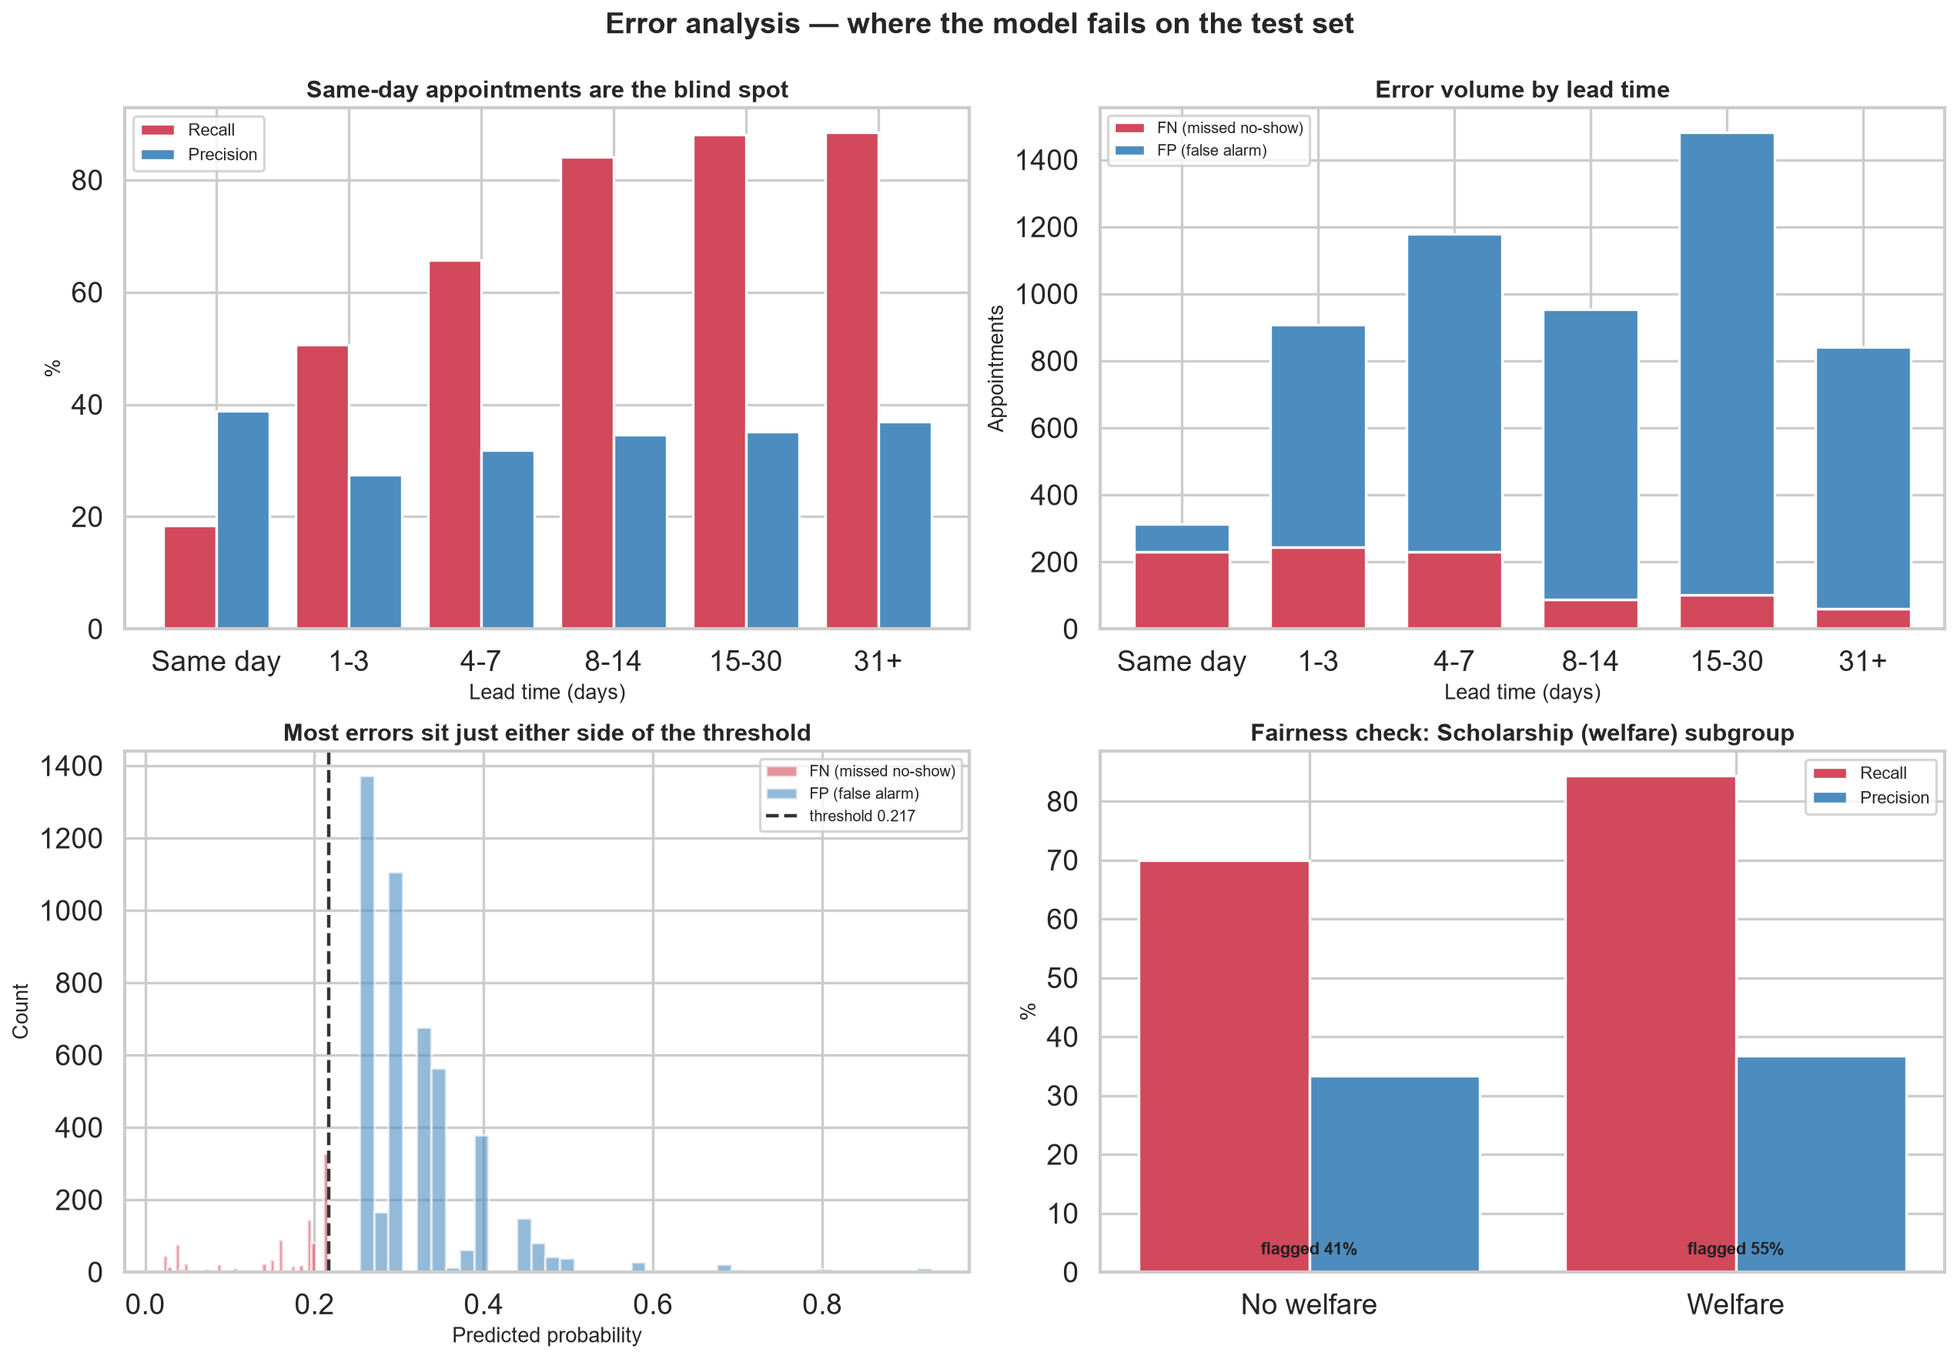
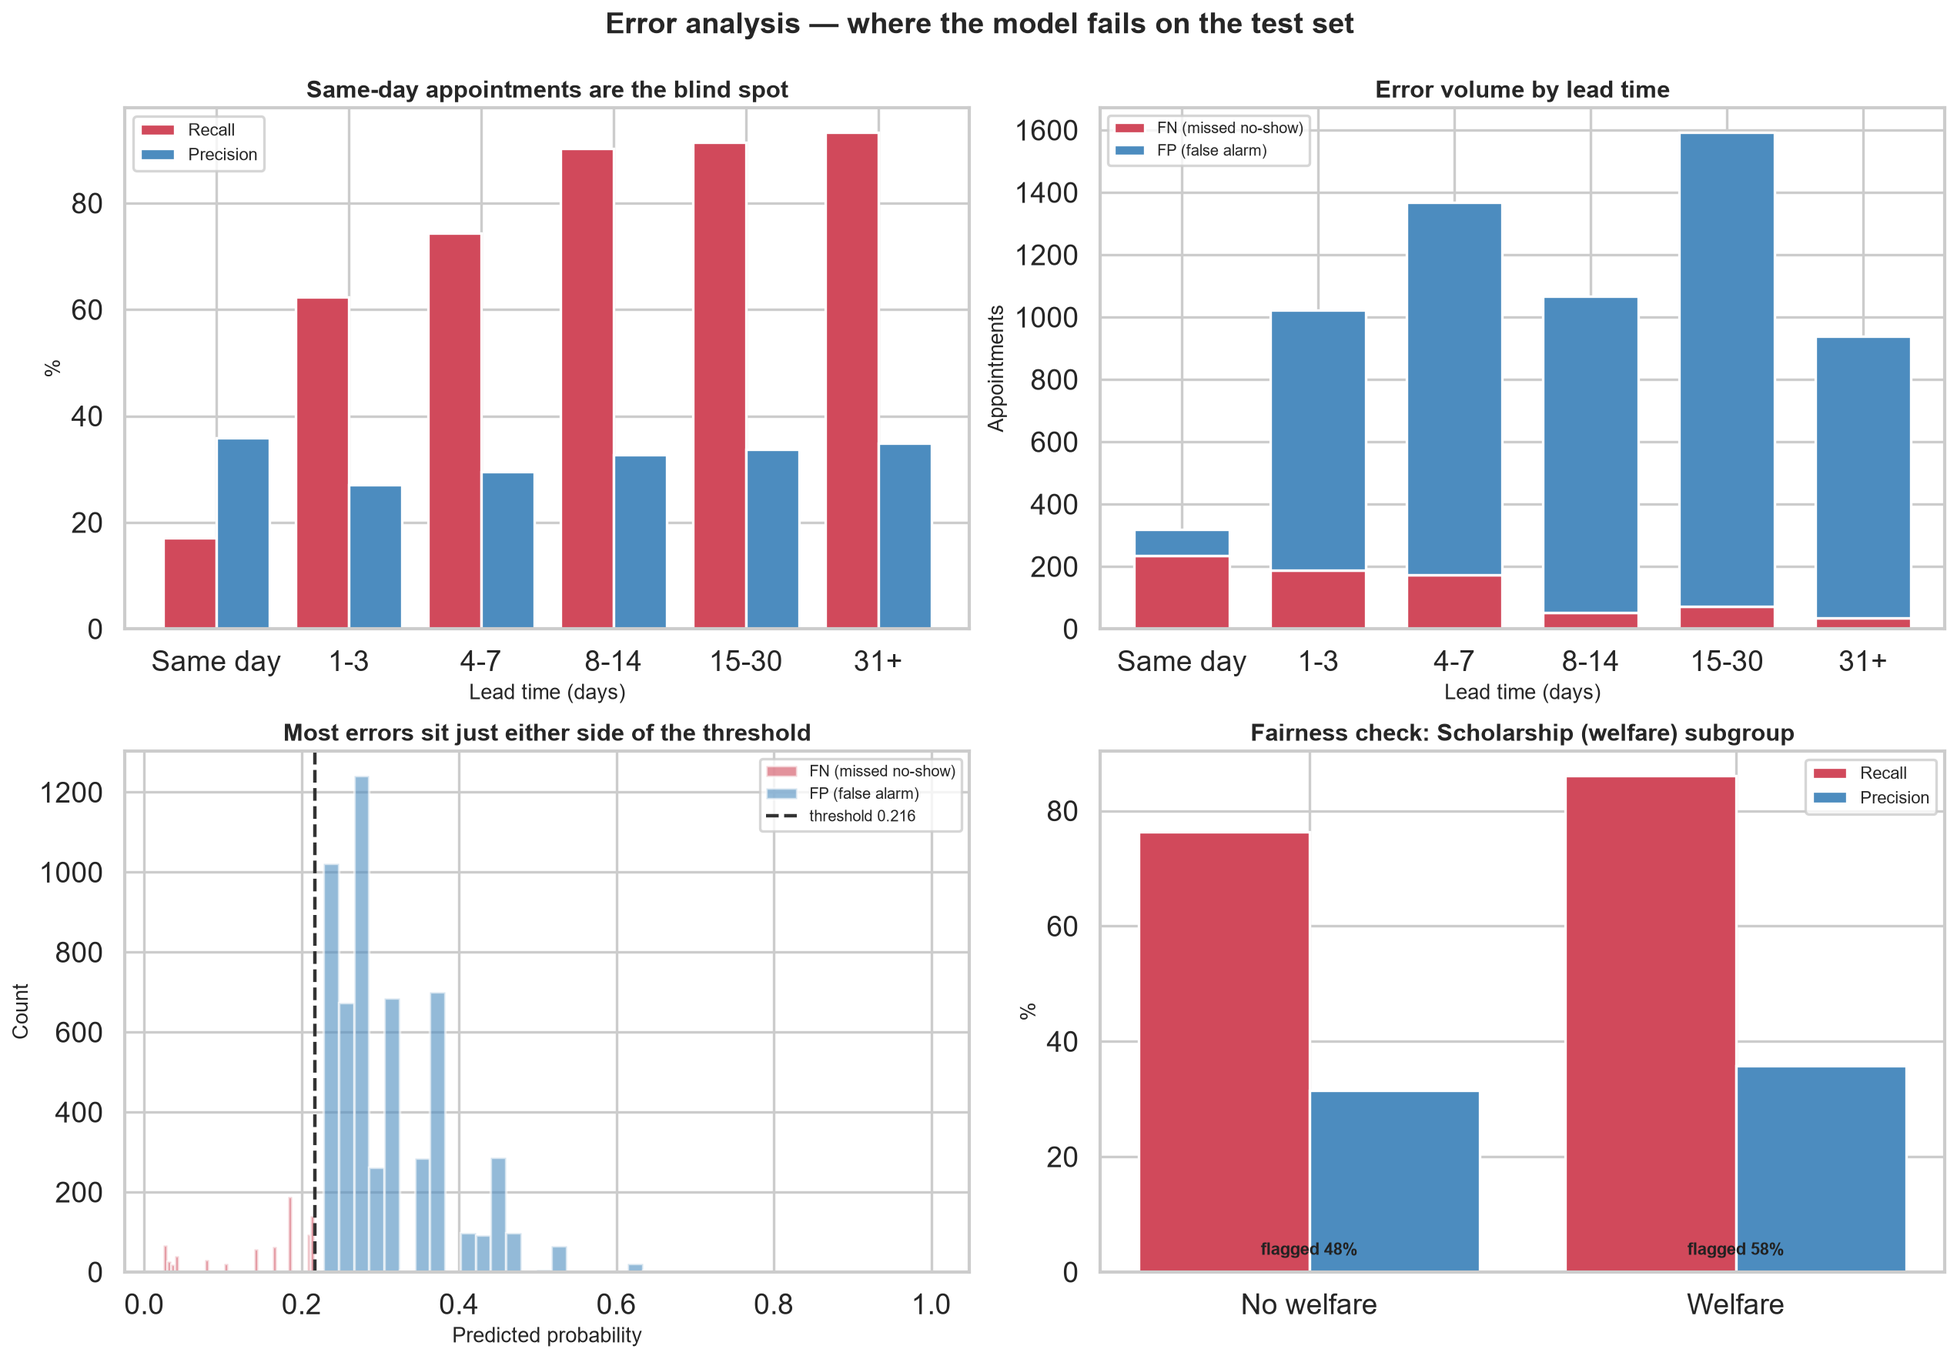
Fix temporal leakage in patient history features
Defense feedback, highest-priority fix: history features could include
outcomes that had not occurred yet at prediction time.

The prediction timestamp is scheduled_day, the moment the appointment is
booked. History was ordered by scheduled_day but accumulated outcomes
regardless of when they became observable, so a patient booking two
appointments in one visit had the first one's outcome counted against the
second before it happened. This affected 27,325 rows (24.7% of the data,
56.7% of rows with any history), and the leak carried signal: those rows
had a 22.8% no-show rate against 14.8% for clean ones.

A past appointment now contributes only if its appointment_day fell
strictly before the row's scheduled_day, implemented as a merge_asof
against a per-patient table of completed appointments. Verified against a
brute-force recomputation of the definition across all 110,516 rows: zero
mismatches on both prior_appointments and prior_noshows.

days_since_last_appointment now measures the gap since the last completed
appointment rather than the last booking, which is what is knowable at
prediction time. Its test is updated accordingly.

Three regression tests added, each failing against the old implementation:
same-visit bookings, same-day appointments, and an assertion that changing
a later outcome cannot alter an earlier row's features.

Retrained and re-scored the held-out test set once. Metrics fall, which is
the leakage being removed rather than a regression:
[…]

diff --git a/src/preprocessing.py b/src/preprocessing.py
@@ -112,22 +112,63 @@ def add_appointment_features(df: pd.DataFrame) -> pd.DataFrame:
 
 
 def add_patient_history_features(df: pd.DataFrame) -> pd.DataFrame:
-    """Per-patient history using strictly prior appointments only.
+    """Per-patient history known at the moment of booking.
 
-    For each row we use that patient's appointments scheduled strictly earlier.
-    Implemented with shifted expanding aggregates over a sorted frame, so the
-    current row's own outcome can never enter its own features.
+    The prediction timestamp is `scheduled_day`: the instant staff would run
+    this model, when the appointment is booked. A previous appointment may
+    therefore only contribute if its *outcome was already observed by then* —
+    that is, its `appointment_day` fell strictly before this row's
+    `scheduled_day`.
+
+    Ordering by booking time alone is not enough. A patient who books two
+    appointments in one visit has a second row whose "prior" appointment has
+    not happened yet; counting its outcome would feed the model the future.
+    Roughly a quarter of all rows are of this shape, so the distinction is
+    material rather than a corner case.
+
+    Implemented as a merge_asof against a per-patient cumulative table keyed on
+    appointment completion date, which is exact and stays O(n log n).
     """
-    df = df.sort_values(["patient_id", "scheduled_day", "appointment_id"]).copy()
-    grp = df.groupby("patient_id", sort=False)
+    original_index = df.index
+    df = df.copy()
 
-    # cumcount is already exclusive of the current row.
-    df["prior_appointments"] = grp.cumcount()
+    # Table of completed appointments: at each appointment_day, how many of
+    # that patient's appointments had finished and how many were missed.
+    completed = (
+        df[["patient_id", "appointment_day", TARGET]]
+        .sort_values(["patient_id", "appointment_day"])
+        .copy()
+    )
+    completed["cum_appointments"] = completed.groupby("patient_id").cumcount() + 1
+    completed["cum_noshows"] = (
+        completed.groupby("patient_id")[TARGET].cumsum()
+    )
+    # Several appointments can share a day; keep the last state of that day.
+    completed = completed.drop_duplicates(
+        subset=["patient_id", "appointment_day"], keep="last"
+    )[["patient_id", "appointment_day", "cum_appointments", "cum_noshows"]]
 
-    prior_noshows = grp[TARGET].apply(
-        lambda s: s.shift(1).expanding().sum()
-    ).reset_index(level=0, drop=True)
-    df["prior_noshows"] = prior_noshows.fillna(0.0)
+    # For every row, look up that patient's state as of the day before booking.
+    left = df[["patient_id", "scheduled_day"]].copy()
+    left["_row"] = np.arange(len(left))
+    left["as_of"] = left["scheduled_day"].dt.normalize()
+    left = left.sort_values("as_of")
+
+    right = completed.sort_values("appointment_day").copy()
+    right["appointment_day"] = right["appointment_day"].dt.normalize()
+
+    merged = pd.merge_asof(
+        left,
+        right,
+        left_on="as_of",
+        right_on="appointment_day",
+        by="patient_id",
+        allow_exact_matches=False,   # same-day outcome is not yet known
+        direction="backward",
+    ).sort_values("_row")
+
+    df["prior_appointments"] = merged["cum_appointments"].fillna(0).to_numpy(dtype=int)
+    df["prior_noshows"] = merged["cum_noshows"].fillna(0).to_numpy(dtype=float)
 
     # Undefined for a first-ever appointment; -1 is a sentinel trees can split on.
     df["prior_noshow_rate"] = np.where(
@@ -138,10 +179,16 @@ def add_patient_history_features(df: pd.DataFrame) -> pd.DataFrame:
     df["prior_noshow_rate"] = df["prior_noshow_rate"].fillna(-1.0)
     df["is_first_appointment"] = (df["prior_appointments"] == 0).astype(int)
 
-    days_since = grp["scheduled_day"].diff().dt.days
-    df["days_since_last_appointment"] = days_since.fillna(-1.0)
+    # Gap to the last *completed* appointment, on the same known-at-booking rule.
+    last_completed = merged["appointment_day"].to_numpy()
+    days_since = (
+        df["scheduled_day"].dt.normalize().to_numpy() - last_completed
+    ) / np.timedelta64(1, "D")
+    df["days_since_last_appointment"] = pd.Series(
+        days_since, index=df.index, dtype="float64"
+    ).fillna(-1.0)
 
-    return df.sort_index()
+    return df.loc[original_index]
 
 
 def build_features(df: pd.DataFrame) -> pd.DataFrame:

diff --git a/tests/test_preprocessing.py b/tests/test_preprocessing.py
@@ -87,7 +87,67 @@ class TestHistoryFeaturesUseOnlyThePast:
     def test_days_since_last_appointment(self, toy_df):
         out = add_patient_history_features(toy_df).set_index("appointment_id")
         assert out.loc[101, "days_since_last_appointment"] == -1  # no previous
-        assert out.loc[102, "days_since_last_appointment"] == 31  # Jan 1 -> Feb 1
+        # Gap since the last *attended-or-missed* appointment, not the last
+        # booking: at booking time staff know when the patient was last seen.
+        assert out.loc[102, "days_since_last_appointment"] == 22  # Jan 10 -> Feb 1
+
+    def test_history_excludes_appointments_not_yet_completed(self):
+        """A prior appointment counts only once its outcome is observable.
+
+        Booking two appointments in one visit is common in this dataset. The
+        later row must not count the earlier one, whose outcome is still in
+        the future at the moment both are booked.
+        """
+        df = pd.DataFrame([
+            # Both booked Jan 1; the Jan 10 outcome is unknown when Jan 20 is booked.
+            _make_row(7, 701, "2016-01-01", "2016-01-10", 1),
+            _make_row(7, 702, "2016-01-01", "2016-01-20", 0),
+            # Booked Jan 15, by which time only the Jan 10 appointment has happened.
+            _make_row(7, 703, "2016-01-15", "2016-01-25", 0),
+        ])
+        out = add_patient_history_features(df).set_index("appointment_id")
+
+        assert out.loc[701, "prior_appointments"] == 0
+        # Same booking day: the Jan 10 no-show has not occurred yet.
+        assert out.loc[702, "prior_appointments"] == 0, (
+            "counted an appointment whose outcome was not yet known at booking"
+        )
+        assert out.loc[702, "prior_noshows"] == 0
+        assert out.loc[702, "prior_noshow_rate"] == -1.0
+        # By Jan 15 exactly one appointment (Jan 10, missed) has completed.
+        assert out.loc[703, "prior_appointments"] == 1
+        assert out.loc[703, "prior_noshows"] == 1
+
+    def test_same_day_appointment_is_not_its_own_history(self):
+        """An appointment booked and held the same day has no history from itself."""
+        df = pd.DataFrame([
+            _make_row(8, 801, "2016-02-01", "2016-02-01", 1),
+            _make_row(8, 802, "2016-02-01", "2016-02-01", 0),
+        ])
+        out = add_patient_history_features(df).set_index("appointment_id")
+        assert out.loc[801, "prior_appointments"] == 0
+        assert out.loc[802, "prior_appointments"] == 0
+
+    def test_future_outcomes_never_affect_earlier_rows(self):
+        """Changing a later appointment's outcome must not alter earlier rows."""
+        rows = [
+            _make_row(9, 901, "2016-01-01", "2016-01-10", 0),
+            _make_row(9, 902, "2016-02-01", "2016-02-10", 0),
+            _make_row(9, 903, "2016-03-01", "2016-03-10", 0),
+        ]
+        base = add_patient_history_features(pd.DataFrame(rows)).set_index("appointment_id")
+
+        flipped_rows = [dict(r) for r in rows]
+        flipped_rows[2][TARGET] = 1          # the last appointment is now a no-show
+        flipped = add_patient_history_features(
+            pd.DataFrame(flipped_rows)
+        ).set_index("appointment_id")
+
+        for apt in (901, 902):
+            for col in ("prior_appointments", "prior_noshows", "prior_noshow_rate"):
+                assert base.loc[apt, col] == flipped.loc[apt, col], (
+                    f"{col} on {apt} changed when a LATER outcome changed — leakage"
+                )
 
 
 class TestCleaning:

diff --git a/README.md b/README.md
@@ -52,34 +52,34 @@ test set of 16,751 appointments.
 
 | Metric | Value |
 |---|---|
-| **F1 (no-show class)** | **0.459** |
-| Precision | 0.338 |
-| Recall | 0.717 |
-| PR-AUC | 0.411 |
-| ROC-AUC | 0.754 |
-| Decision threshold | 0.217 (tuned on validation) |
+| **F1 (no-show class)** | **0.453** |
+| Precision | 0.320 |
+| Recall | 0.776 |
+| PR-AUC | 0.374 |
+| ROC-AUC | 0.743 |
+| Decision threshold | 0.216 (tuned on validation) |
 
 Model progression — every model after the baseline had to beat Logistic Regression:
 
 | Model | Validation F1 |
 |---|---|
 | Majority-class baseline | 0.000 |
-| Logistic Regression | 0.450 |
-| Random Forest | 0.454 |
-| **XGBoost** | **0.457** |
+| Logistic Regression | 0.449 |
+| Random Forest | 0.449 |
+| **XGBoost** | **0.452** |
 
-The validation → test gap is **−0.001**, indicating the patient-grouped split held.
+The validation → test gap is **−0.000**, indicating the patient-grouped split held.
 
 ### What this means operationally
 
 | Risk tier | Share of appointments | Actual no-show rate |
 |---|---|---|
-| Low | 60.7% | 10.6% |
-| Medium | 28.9% | 30.2% |
-| **High** | **10.4%** | **47.3%** |
+| Low | 59.5% | 10.8% |
+| Medium | 26.6% | 29.5% |
+| **High** | **13.9%** | **41.7%** |
 
-High-risk patients miss **4.5× more often** than low-risk ones. Calling the top
-10% of appointments reaches 25% of all no-shows.
+High-risk patients miss **3.9× more often** than low-risk ones. Calling the top
+14% of appointments reaches 29% of all no-shows.
 
 **On the modest F1:** no feature correlates above 0.28 with the target, so this is
 close to the ceiling for this dataset. The model is useful for *ranking* who to
@@ -129,12 +129,12 @@ curl -X POST http://localhost:8000/predict \
 
 ```json
 {
-  "no_show_probability": 0.4044,
-  "no_show_percentage": 40.4,
+  "no_show_probability": 0.4431,
+  "no_show_percentage": 44.3,
   "risk_tier": "High",
   "recommendation": "Call to confirm — highest priority for staff follow-up.",
   "lead_time_days": 28,
-  "threshold_used": 0.2173,
+  "threshold_used": 0.2165,
   "model": "xgboost"
 }
 ```
@@ -208,12 +208,12 @@ transformations applied at inference are exactly those fitted during training.
 
 ```json
 {
-  "no_show_probability": 0.4044,
-  "no_show_percentage": 40.4,
+  "no_show_probability": 0.4431,
+  "no_show_percentage": 44.3,
   "risk_tier": "High",
   "recommendation": "Call to confirm — highest priority for staff follow-up.",
   "lead_time_days": 28,
-  "threshold_used": 0.2173,
+  "threshold_used": 0.2165,
   "model": "xgboost"
 }
 ```
@@ -248,23 +248,28 @@ is prevented:
    random row split would place the same patient in both train and test. The
    split is grouped on `PatientId` (70/15/15), stratified by each patient's
    dominant outcome, with an assertion that no patient spans two splits.
-2. **History features.** `prior_noshow_rate` and related features are computed
-   from appointments scheduled *strictly before* the row being predicted, using
-   shifted expanding aggregates. A test flips a row's own outcome and asserts
-   that row's features do not change.
+2. **History features.** The prediction timestamp is `scheduled_day` — the
+   moment staff would run the model. A past appointment therefore contributes
+   only if its **outcome was already observable then**, i.e. its
+   `appointment_day` fell strictly before this row's `scheduled_day`. Ordering
+   by booking time is not sufficient: a patient who books two appointments in
+   one visit would otherwise have the first one's outcome counted before it
+   happened, which affected 24.7% of rows. Implemented as a `merge_asof`
+   against a per-patient table of completed appointments; tests assert that
+   neither a row's own outcome nor any later outcome changes its features.
 
 `AppointmentID` and `PatientId` are never used as features.
 
 **Metric choice** — classes are ~20/80, so accuracy is misleading: always
 predicting "attended" scores 79.8% while catching zero no-shows. Primary metric
 is **F1 on the no-show class**, with PR-AUC, ROC-AUC and a confusion matrix
-reported alongside. The decision threshold is tuned on validation (0.217), not
-assumed at 0.5 — at the default it would score F1 0.107.
+reported alongside. The decision threshold is tuned on validation (0.216), not
+assumed at 0.5 — at the default it would score F1 0.070.
 
 **Calibration** — `scale_pos_weight` corrects the imbalance but inflates
-probabilities (mean 0.431 against a true rate of 0.202). Since the deliverable
+probabilities (mean 0.433 against a true rate of 0.202). Since the deliverable
 shows staff a percentage, isotonic calibration is fitted on validation: mean
-predicted becomes 0.202 and Brier improves from 0.204 to 0.140, with F1 unchanged.
+predicted becomes 0.202 and Brier improves from 0.208 to 0.142, with F1 unchanged.
 
 **Data cleaning** — 11 rows removed from 110,527:
 - 5 where `ScheduledDay` fell after `AppointmentDay`
@@ -292,29 +297,29 @@ discard ~38,000 valid same-day rows.
 Aggregate F1 hides *which* appointments the model gets wrong. Slicing the 16,751
 test appointments by error type gives four findings:
 
-**1. Same-day appointments are the blind spot.** Recall collapses to 18.4% there
-against 88.4% at 31+ days:
+**1. Same-day appointments are the blind spot.** Recall collapses to 17.0% there
+against 93.3% at 31+ days:
 
 | Lead time | n | Actual rate | Recall | Precision |
 |---|---|---|---|---|
-| Same day | 5,950 | 4.7% | **18.4%** | 38.8% |
-| 1–3 | 2,112 | 23.5% | 50.6% | 27.5% |
-| 4–7 | 2,606 | 25.9% | 65.8% | 31.9% |
-| 8–14 | 1,800 | 30.3% | 84.0% | 34.6% |
-| 15–30 | 2,667 | 31.8% | 88.1% | 35.1% |
-| 31+ | 1,616 | 32.1% | **88.4%** | 37.0% |
+| Same day | 5,950 | 4.7% | **17.0%** | 35.8% |
+| 1–3 | 2,112 | 23.5% | 62.3% | 27.0% |
+| 4–7 | 2,606 | 25.9% | 74.4% | 29.6% |
+| 8–14 | 1,800 | 30.3% | 90.3% | 32.7% |
+| 15–30 | 2,667 | 31.8% | 91.4% | 33.8% |
+| 31+ | 1,616 | 32.1% | **93.3%** | 34.9% |
 
 This is the model behaving correctly, not a bug: same-day appointments genuinely
 miss only 4.7% of the time, so the calibrated probability rarely clears the
 threshold. It matters operationally because same-day bookings are 36% of all
 appointments — the call list will systematically under-cover them.
 
-**2. Most errors are borderline, not confident blunders.** 61.8% of false
-negatives fall within 0.05 of the 0.217 threshold. The model is uncertain where
+**2. Most errors are borderline, not confident blunders.** 64.4% of false
+negatives fall within 0.05 of the 0.216 threshold. The model is uncertain where
 it is wrong, which is the desired failure mode — it is not confidently wrong.
 
-**3. Errors track the base rate by age.** Recall is 32.8% for seniors (14.5%
-actual no-show rate) and 89.1% for teens (26.2%). The model is weakest exactly
+**3. Errors track the base rate by age.** Recall is 44.3% for seniors (14.5%
+actual no-show rate) and 90.6% for teens (26.2%). The model is weakest exactly
 where no-shows are rarest, which follows from a single global threshold.
 
 **4. Fairness — the welfare subgroup is flagged more often.** This is the finding
@@ -322,11 +327,11 @@ that most constrains deployment:
 
 | Group | n | Actual rate | Flagged | Recall | Precision |
 |---|---|---|---|---|---|
-| No welfare | 15,080 | 19.6% | 41.2% | 69.9% | 33.4% |
-| Scholarship (welfare) | 1,671 | 24.1% | **55.2%** | 84.3% | 36.8% |
+| No welfare | 15,080 | 19.6% | 47.7% | 76.4% | 31.5% |
+| Scholarship (welfare) | 1,671 | 24.1% | **57.8%** | 86.1% | 35.8% |
 
-Welfare recipients are flagged at 55.2% versus 41.2% — a **14-point gap**.
-Precision is comparable across groups (36.8% vs 33.4%), so the model is not
+Welfare recipients are flagged at 57.8% versus 47.7% — a **10-point gap**.
+Precision is comparable across groups (35.8% vs 31.5%), so the model is not
 *less accurate* for this group; it flags them more because they genuinely miss
 more (24.1% vs 19.6%). The disparity is in exposure, not in error rate.
 
@@ -341,7 +346,7 @@ in a healthcare setting. The limitations below are therefore part of the
 deliverable, not a footnote to it.
 
 1. **One city, one year** (Vitória, 2016). Generalization elsewhere is untested.
-2. **Modest discrimination** — F1 0.459, ROC-AUC 0.754. Useful for ranking, not
+2. **Modest discrimination** — F1 0.453, ROC-AUC 0.743. Useful for ranking, not
    for confident individual predictions.
 3. **Precision ~34%** — about two in three flagged patients would have attended.
    Acceptable when the action is a phone call; not for anything punitive.
